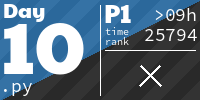
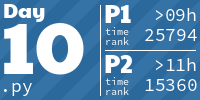
Day 10 Part 2

diff --git a/2023/Day 10/sol.py b/2023/Day 10/sol.py
@@ -1,4 +1,5 @@
 from sys import stdin
+from PIL import Image, ImageDraw
 
 lines = [i.strip() for i in stdin.read().splitlines()]
 start = []
@@ -10,6 +11,12 @@ movement_directions = {'|':[[1,0],[-1,0]],
                        '7':[[1,0],[0,-1]],
                        'F':[[1,0],[0,1]],
                        '.':[[0,0]]}
+drawshapes = {'|':[[False,True,False],[False,True,False],[False,True,False]],
+              '-':[[False,False,False],[True,True,True],[False,False,False]],
+              'L':[[False,True,False],[False,True,True],[False,False,False]],
+              'J':[[False,True,False],[True,True,False],[False,False,False]],
+              '7':[[False,False,False],[True,True,False],[False,True,False]],
+              'F':[[False,False,False],[False,True,True],[False,True,False]]}
 visited = [[False for _ in range(len(lines[0]))] for _ in range(len(lines))]
 sx = sy = 0
 def links_back(point,newpoint):
@@ -33,6 +40,33 @@ def getnextmove(point):
             return [point[0]+i[0],point[1]+i[1]]
     return start
 
+def part2():
+    image = Image.new("RGB", (len(visited[0])*3, len(visited)*3), color="white")
+    pixels = image.load()
+
+    # Set pixel colors based on the boolean array
+    for i in range(len(visited)):
+        for j in range(len(visited[0])):
+            if not visited[i][j]:
+                continue
+            shape = lines[i][j]
+            for x in range(3):
+                for y in range(3):
+                    if drawshapes[shape][y][x]:
+                        pixels[(j*3+x),(i*3+y)] = (0,0,0)
+    ImageDraw.floodfill(image,(0,0), (255,0,0),border=None, thresh=0)
+    count_inner = 0
+    for i in range(len(visited)):
+        for j in range(len(visited[0])):
+            colours = [(255,255,255)]
+            for x in range(3):
+                for y in range(3):
+                    colours.append(image.getpixel(((j*3+x),(i*3+y))))
+            if len(set(colours)) == 1:
+                count_inner += 1
+    image.save("output.png")
+    return count_inner
+
 for i in range(len(lines)):
     sx = i
     sy = lines[i].find('S')
@@ -47,5 +81,11 @@ while not lines[pos[0]][pos[1]] == 'S':
     pos = getnextmove(pos)
     counter += 1
     visited[pos[0]][pos[1]] = True
+fnext_moves = [[start[0]-x[0],start[1]-x[1]] for x in next_moves]
+Sshape = [[False,False,False],[False,True,False],[False,False,False]]
+for x in fnext_moves:
+    Sshape[1+x[0]][1+x[1]] = True
+drawshapes['S'] = Sshape
+drawshapes['S'] = [[True,True,True],[True,True,True],[True,True,True]]
 print("Part 1:",counter // 2)
-#print("Part 2:",401)
+print("Part 2:",part2())

diff --git a/README.md b/README.md
@@ -10,7 +10,7 @@ The graphic below has been created with [aoc-tiles](.pre-commit-config.yaml) scr
 
 <!-- AOC TILES BEGIN -->
 <h1 align="center">
-  2023 - 18 ⭐
+  2023 - 19 ⭐
 </h1>
 <a href="2023/Day 1/sol.py">
   <img src=".aoc_tiles/tiles/2023/01.png" width="161px">
